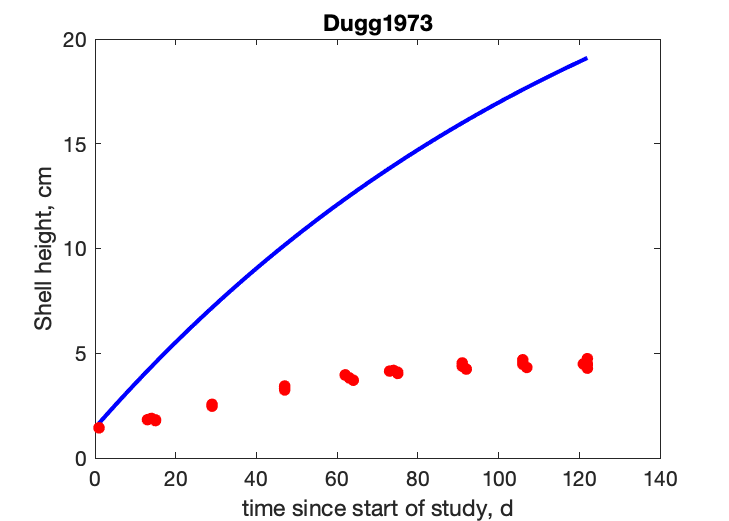
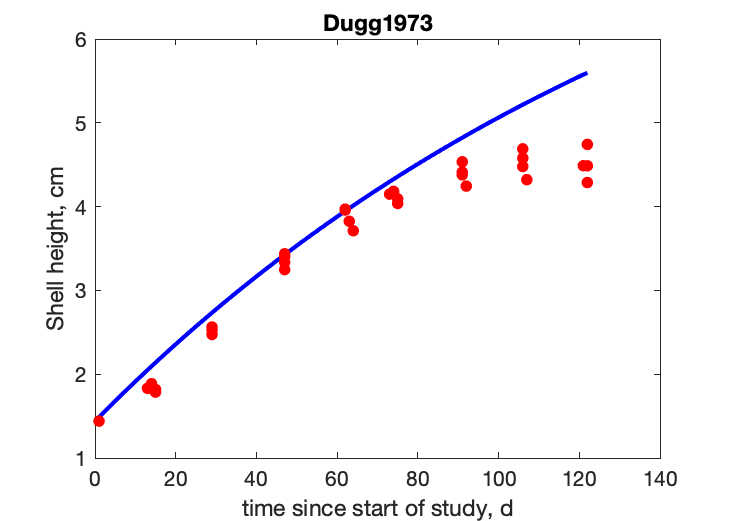
exclude assimilation in dry weight oxygen consumption

diff --git a/Argopecten_irradians/Argopecten_irradians_res.html b/Argopecten_irradians/Argopecten_irradians_res.html
@@ -44,7 +44,7 @@
   </div>
 
   <div class="par">
-  <h4>COMPLETE = 2.5; MRE = 2308.032; SMSE =    0.736 </h4>
+  <h4>COMPLETE = 2.5; MRE =    0.480; SMSE =    0.290 </h4>
   </div>
 
   <p class="clear"></p>
@@ -53,28 +53,29 @@
   <h2>Data & predictions</h2>
   <TABLE id="prd">
     <TR  class="head"><TH>data</TH> <TH>prd</TH> <TH>RE</TH>  <TH>symbol</TH> <TH>units</TH> <TH>description</TH> </TR>
-    <TR><TD>  1</TD> <TD>0.1167</TD> <TD>0.8833</TD> <TD>ab</TD> <TD>d</TD> <TD>age at birth</TD></TR>
-    <TR><TD>12.2</TD> <TD>0.5906</TD> <TD>0.9516</TD> <TD>aj</TD> <TD>d</TD> <TD>age at metamorphosis</TD></TR>
-    <TR><TD>365</TD> <TD>45.27</TD> <TD>0.876</TD> <TD>ap</TD> <TD>d</TD> <TD>age at puberty</TD></TR>
-    <TR><TD>790</TD> <TD>2680</TD> <TD>2.393</TD> <TD>am</TD> <TD>d</TD> <TD>life span</TD></TR>
-    <TR><TD>0.0081</TD> <TD>0.006428</TD> <TD>0.2064</TD> <TD>Lb</TD> <TD>cm</TD> <TD>shell length at birth</TD></TR>
-    <TR><TD>0.018</TD> <TD>0.03478</TD> <TD>0.9322</TD> <TD>Lj</TD> <TD>cm</TD> <TD>shell length at metamorphosis</TD></TR>
-    <TR><TD>5.5</TD> <TD>2.868</TD> <TD>0.4786</TD> <TD>Lp</TD> <TD>cm</TD> <TD>shell length at puberty</TD></TR>
-    <TR><TD>  9</TD> <TD>31.11</TD> <TD>2.457</TD> <TD>Li</TD> <TD>cm</TD> <TD>ultimate shell length</TD></TR>
-    <TR><TD>8.39e-07</TD> <TD>7.73e-10</TD> <TD>0.9991</TD> <TD>Wdb</TD> <TD>g</TD> <TD>dry tissue weight at birth</TD></TR>
-    <TR><TD>4.86e-06</TD> <TD>1.225e-07</TD> <TD>0.9748</TD> <TD>Wdj</TD> <TD>g</TD> <TD>dry tissue weight at metamorphosis</TD></TR>
-    <TR><TD>1.6</TD> <TD>0.0185</TD> <TD>0.9884</TD> <TD>Wdp</TD> <TD>g</TD> <TD>dry tissue weight at puberty</TD></TR>
-    <TR><TD>5.3</TD> <TD>23.62</TD> <TD>3.456</TD> <TD>Wdi</TD> <TD>g</TD> <TD>ultimate dry tissue weight</TD></TR>
-    <TR><TD>2094</TD> <TD>6.763e+07</TD> <TD>3.229e+04</TD> <TD>Ri</TD> <TD>#/d</TD> <TD>maximum reprod rate</TD></TR>
-    <TR><TD colspan="2">see figure</TD> <TD>2.384</TD> <TD>tL1</TD> <TD colspan="2">time since start of study, <font color="blue"><i>vs.</i></font> Shell height</TD>
-    <TR><TD colspan="2">see figure</TD> <TD>2.291</TD> <TD>tL2</TD> <TD colspan="2">Time since birth, <font color="blue"><i>vs.</i></font> Shell height</TD>
-    <TR><TD colspan="2">see figure</TD> <TD>0.2558</TD> <TD>TJO</TD> <TD colspan="2">temperature, <font color="blue"><i>vs.</i></font> O_2 consumption rate</TD>
-    <TR class="psd"><TD>0.02</TD> <TD>0.03876</TD> <TD>0.938</TD> <TD>psd.v</TD> <TD>cm/d</TD> <TD>energy conductance</TD></TR>
-    <TR class="psd"><TD>0.8</TD> <TD>0.8</TD> <TD>  0</TD> <TD>psd.kap</TD> <TD>-</TD> <TD>allocation fraction to soma</TD></TR>
+    <TR><TD>  1</TD> <TD>1.028</TD> <TD>0.0276</TD> <TD>ab</TD> <TD>d</TD> <TD>age at birth</TD></TR>
+    <TR><TD>12.2</TD> <TD>9.811</TD> <TD>0.1959</TD> <TD>aj</TD> <TD>d</TD> <TD>age at metamorphosis</TD></TR>
+    <TR><TD>365</TD> <TD>527.8</TD> <TD>0.446</TD> <TD>ap</TD> <TD>d</TD> <TD>age at puberty</TD></TR>
+    <TR><TD>790</TD> <TD>819.8</TD> <TD>0.03775</TD> <TD>am</TD> <TD>d</TD> <TD>life span</TD></TR>
+    <TR><TD>0.0081</TD> <TD>0.003921</TD> <TD>0.5159</TD> <TD>Lb</TD> <TD>cm</TD> <TD>shell length at birth</TD></TR>
+    <TR><TD>0.018</TD> <TD>0.03741</TD> <TD>1.078</TD> <TD>Lj</TD> <TD>cm</TD> <TD>shell length at metamorphosis</TD></TR>
+    <TR><TD>5.5</TD> <TD>5.624</TD> <TD>0.02253</TD> <TD>Lp</TD> <TD>cm</TD> <TD>shell length at puberty</TD></TR>
+    <TR><TD>  9</TD> <TD>9.199</TD> <TD>0.02214</TD> <TD>Li</TD> <TD>cm</TD> <TD>ultimate shell length</TD></TR>
+    <TR><TD>8.39e-07</TD> <TD>5.53e-08</TD> <TD>0.9341</TD> <TD>Wdb</TD> <TD>g</TD> <TD>dry tissue weight at birth</TD></TR>
+    <TR><TD>4.86e-06</TD> <TD>4.802e-05</TD> <TD>8.881</TD> <TD>Wdj</TD> <TD>g</TD> <TD>dry tissue weight at metamorphosis</TD></TR>
+    <TR><TD>1.6</TD> <TD>1.329</TD> <TD>0.1695</TD> <TD>Wdp</TD> <TD>g</TD> <TD>dry tissue weight at puberty</TD></TR>
+    <TR><TD>5.3</TD> <TD>5.816</TD> <TD>0.0973</TD> <TD>Wdi</TD> <TD>g</TD> <TD>ultimate dry tissue weight</TD></TR>
+    <TR><TD>2094</TD> <TD>1989</TD> <TD>0.05015</TD> <TD>Ri</TD> <TD>#/d</TD> <TD>maximum reprod rate</TD></TR>
+    <TR><TD colspan="2">see figure</TD> <TD>0.1048</TD> <TD>tL1</TD> <TD colspan="2">time since start of study, <font color="blue"><i>vs.</i></font> Shell height</TD>
+    <TR><TD colspan="2">see figure</TD> <TD>0.1523</TD> <TD>tL2</TD> <TD colspan="2">Time since start of study, <font color="blue"><i>vs.</i></font> Shell height</TD>
+    <TR><TD colspan="2">see figure</TD> <TD>0.2142</TD> <TD>TJO</TD> <TD colspan="2">temperature, <font color="blue"><i>vs.</i></font> O_2 consumption rate</TD>
+    <TR><TD colspan="2">see figure</TD> <TD>4.069</TD> <TD>WJO</TD> <TD colspan="2">dry weight, <font color="blue"><i>vs.</i></font> O_2 consumption rate</TD>
+    <TR class="psd"><TD>0.02</TD> <TD>0.02279</TD> <TD>0.1396</TD> <TD>psd.v</TD> <TD>cm/d</TD> <TD>energy conductance</TD></TR>
+    <TR class="psd"><TD>0.8</TD> <TD>0.9979</TD> <TD>0.2473</TD> <TD>psd.kap</TD> <TD>-</TD> <TD>allocation fraction to soma</TD></TR>
     <TR class="psd"><TD>0.95</TD> <TD>0.95</TD> <TD>  0</TD> <TD>psd.kap_R</TD> <TD>-</TD> <TD>reproduction efficiency</TD></TR>
-    <TR class="psd"><TD> 18</TD> <TD>51.68</TD> <TD>1.871</TD> <TD>psd.p_M</TD> <TD>J/d.cm^3</TD> <TD>vol-spec som maint</TD></TR>
+    <TR class="psd"><TD> 18</TD> <TD>35.34</TD> <TD>0.9633</TD> <TD>psd.p_M</TD> <TD>J/d.cm^3</TD> <TD>vol-spec som maint</TD></TR>
     <TR class="psd"><TD>0.002</TD> <TD>0.002</TD> <TD>  0</TD> <TD>psd.k_J</TD> <TD>1/d</TD> <TD>maturity maint rate coefficient</TD></TR>
-    <TR class="psd"><TD>0.8</TD> <TD>0.7931</TD> <TD>0.008611</TD> <TD>psd.kap_G</TD> <TD>-</TD> <TD>growth efficiency</TD></TR>
+    <TR class="psd"><TD>0.8</TD> <TD>0.7978</TD> <TD>0.002761</TD> <TD>psd.kap_G</TD> <TD>-</TD> <TD>growth efficiency</TD></TR>
   </TABLE>
   </div>
 
@@ -83,32 +84,33 @@
   <TABLE id="par">
     <TR class="head"><TH>symbol</TH> <TH>units</TH> <TH>value</TH>  <TH>free</TH> <TH>description</TH> </TR>
     <TR><TD>T_ref</TD> <TD>K</TD> <TD>293.1</TD> <TD>0</TD> <TD>Reference temperature</TD></TR>
-    <TR><TD>z</TD> <TD>-</TD> <TD>0.9754</TD> <TD>1</TD> <TD>zoom factor</TD></TR>
+    <TR><TD>z</TD> <TD>-</TD> <TD>0.3864</TD> <TD>1</TD> <TD>zoom factor</TD></TR>
     <TR><TD>F_m</TD> <TD>l/d.cm^2</TD> <TD>6.5</TD> <TD>0</TD> <TD>{F_m}, max spec searching rate</TD></TR>
     <TR><TD>kap_X</TD> <TD>-</TD> <TD>0.8</TD> <TD>0</TD> <TD>digestion efficiency of food to reserve</TD></TR>
     <TR><TD>kap_P</TD> <TD>-</TD> <TD>0.1</TD> <TD>0</TD> <TD>faecation efficiency of food to faeces</TD></TR>
-    <TR><TD>v</TD> <TD>cm/d</TD> <TD>0.03876</TD> <TD>1</TD> <TD>energy conductance</TD></TR>
-    <TR><TD>kap</TD> <TD>-</TD> <TD>0.8</TD> <TD>1</TD> <TD>allocation fraction to soma</TD></TR>
+    <TR><TD>v</TD> <TD>cm/d</TD> <TD>0.02279</TD> <TD>1</TD> <TD>energy conductance</TD></TR>
+    <TR><TD>kap</TD> <TD>-</TD> <TD>0.9979</TD> <TD>1</TD> <TD>allocation fraction to soma</TD></TR>
     <TR><TD>kap_R</TD> <TD>-</TD> <TD>0.95</TD> <TD>0</TD> <TD>reproduction efficiency</TD></TR>
-    <TR><TD>p_M</TD> <TD>J/d.cm^3</TD> <TD>51.68</TD> <TD>1</TD> <TD>[p_M], vol-spec somatic maint</TD></TR>
+    <TR><TD>p_M</TD> <TD>J/d.cm^3</TD> <TD>35.34</TD> <TD>1</TD> <TD>[p_M], vol-spec somatic maint</TD></TR>
     <TR><TD>p_T</TD> <TD>J/d.cm^2</TD> <TD>  0</TD> <TD>0</TD> <TD>{p_T}, surf-spec somatic maint</TD></TR>
     <TR><TD>k_J</TD> <TD>1/d</TD> <TD>0.002</TD> <TD>0</TD> <TD>maturity maint rate coefficient</TD></TR>
-    <TR><TD>E_G</TD> <TD>J/cm^3</TD> <TD>2374</TD> <TD>1</TD> <TD>[E_G], spec cost for structure</TD></TR>
-    <TR><TD>E_Hb</TD> <TD>J</TD> <TD>2.859e-06</TD> <TD>1</TD> <TD>maturity at birth</TD></TR>
-    <TR><TD>E_Hj</TD> <TD>J</TD> <TD>0.0004535</TD> <TD>1</TD> <TD>maturity at metam</TD></TR>
-    <TR><TD>E_Hp</TD> <TD>J</TD> <TD>75.57</TD> <TD>1</TD> <TD>maturity at puberty</TD></TR>
-    <TR><TD>h_a</TD> <TD>1/d^2</TD> <TD>5.544e-08</TD> <TD>1</TD> <TD>Weibull aging acceleration</TD></TR>
+    <TR><TD>E_G</TD> <TD>J/cm^3</TD> <TD>2360</TD> <TD>1</TD> <TD>[E_G], spec cost for structure</TD></TR>
+    <TR><TD>E_Hb</TD> <TD>J</TD> <TD>2.439e-06</TD> <TD>1</TD> <TD>maturity at birth</TD></TR>
+    <TR><TD>E_Hj</TD> <TD>J</TD> <TD>0.00215</TD> <TD>1</TD> <TD>maturity at metam</TD></TR>
+    <TR><TD>E_Hp</TD> <TD>J</TD> <TD>110.8</TD> <TD>1</TD> <TD>maturity at puberty</TD></TR>
+    <TR><TD>h_a</TD> <TD>1/d^2</TD> <TD>1.306e-06</TD> <TD>1</TD> <TD>Weibull aging acceleration</TD></TR>
     <TR><TD>s_G</TD> <TD>-</TD> <TD>0.0001</TD> <TD>0</TD> <TD>Gompertz stress coefficient</TD></TR>
     <TR><TD>T_A</TD> <TD>K</TD> <TD>8000</TD> <TD>0</TD> <TD>Arrhenius temperature</TD></TR>
-    <TR><TD>del_M</TD> <TD>-</TD> <TD>0.1696</TD> <TD>1</TD> <TD>shape coefficient</TD></TR>
+    <TR><TD>del_M</TD> <TD>-</TD> <TD>0.4007</TD> <TD>1</TD> <TD>shape coefficient</TD></TR>
     <TR><TD>Wd0</TD> <TD>g</TD> <TD>  1</TD> <TD>0</TD> <TD>dry weight for TJO data</TD></TR>
-    <TR><TD>Lw_0_tL1</TD> <TD>cm</TD> <TD>1.44</TD> <TD>0</TD> <TD>initial shell height for tL1 and tL2 data</TD></TR>
-    <TR><TD>Lw_0_tL2</TD> <TD>cm</TD> <TD>1.04</TD> <TD>0</TD> <TD>initial shell height for tL1 and tL2 data</TD></TR>
+    <TR><TD>Lw_0_tL1</TD> <TD>cm</TD> <TD>1.44</TD> <TD>0</TD> <TD>initial shell height for tL1 data</TD></TR>
+    <TR><TD>Lw_0_tL2</TD> <TD>cm</TD> <TD>1.04</TD> <TD>0</TD> <TD>initial shell height for tL2 data</TD></TR>
     <TR><TD>f</TD> <TD>-</TD> <TD>  1</TD> <TD>0</TD> <TD>scaled functional response for 0-var data</TD></TR>
-    <TR><TD>del_Mb</TD> <TD>-</TD> <TD>0.2626</TD> <TD>1</TD> <TD>shape coefficient before metamorphosis</TD></TR>
-    <TR><TD>f_tL1</TD> <TD>-</TD> <TD>0.5</TD> <TD>1</TD> <TD>scaled functional response for Virginia</TD></TR>
-    <TR><TD>f_tL2</TD> <TD>-</TD> <TD>0.5</TD> <TD>1</TD> <TD>scaled functional response for Florida</TD></TR>
-    <TR><TD>f_TJO</TD> <TD>-</TD> <TD>0.5</TD> <TD>1</TD> <TD>scaled functional response for Florida</TD></TR>
+    <TR><TD>del_Mb</TD> <TD>-</TD> <TD>1.992</TD> <TD>1</TD> <TD>shape coefficient before metamorphosis</TD></TR>
+    <TR><TD>f_tL1</TD> <TD>-</TD> <TD>0.001019</TD> <TD>1</TD> <TD>scaled functional response for tL1</TD></TR>
+    <TR><TD>f_tL2</TD> <TD>-</TD> <TD>0.001787</TD> <TD>1</TD> <TD>scaled functional response for tL2</TD></TR>
+    <TR><TD>f_TJO</TD> <TD>-</TD> <TD>0.9996</TD> <TD>1</TD> <TD>scaled functional response for TJO</TD></TR>
+    <TR><TD>f_WJO</TD> <TD>-</TD> <TD>0.9554</TD> <TD>1</TD> <TD>scaled functional response for WJO</TD></TR>
   </TABLE>
   </div>
 

diff --git a/Argopecten_irradians/predict_Argopecten_irradians.m b/Argopecten_irradians/predict_Argopecten_irradians.m
@@ -26,6 +26,7 @@ function [prdData, info] = predict_Argopecten_irradians(par, data, auxData)
   filterChecks = ... % f contrained to not be larger than 1 or negeative
                  f_tL1>1 || f_tL1 < 0 || ... ;
                  f_tL2>1 || f_tL2 < 0 || ... ;
+                 f_WJO>1 || f_WJO < 0 || ... ;
                  f_TJO >1 || f_TJO < 0;
    
 if filterChecks
@@ -135,7 +136,9 @@ end
   L        = (W / d_V / (1 + f * w)).^(1/3);
   [L, rows, occurence] = unique(L); % pulls out unique Length elements in increasing order
   pACSJGRD = TC * p_ref * scaled_power_j(L, f, pars_p, l_b, l_j, l_p);
+  
   pADG     = pACSJGRD(:,[1 7 5])';     % J/d,    assimilation, dissipation, growth power
+  pACSJGRD(:,1) = 0 * pACSJGRD(:,1); % exclude contribution from assimilation
   J_O      = eta_O * pADG;             % mol/d,  fluxes of organics J_X, J_V, J_E, J_P in rows
   J_M      = -n_M \ n_O * J_O;         % mol/d,  fluxes of minerals J_C, J_H, J_O, J_N in rows, A, D, G in cols
   WJO     = -24.4e3 / 24 * J_M(3,:)'; % mLO2/h, O2 consumption

diff --git a/Argopecten_irradians/mydata_Argopecten_irradians.m b/Argopecten_irradians/mydata_Argopecten_irradians.m
@@ -148,7 +148,7 @@ weights = setweights(data, []);
 % confident in some early life stage data, lots of hatchery data and sources
 weights.aj = 2 * weights.aj;
 weights.ab = 2 * weights.ab;
-weights.am = 2 * weights.am;
+weights.am = 2 * weights.am; % short lived speceis
 weights.ab = 2 * weights.Lb;
 weights.am = 2 * weights.Lj;
 

diff --git a/Argopecten_irradians/run_Argopecten_irradians.m b/Argopecten_irradians/run_Argopecten_irradians.m
@@ -8,7 +8,7 @@ estim_options('default');
 estim_options('max_step_number', 5e2);
 estim_options('max_fun_evals', 5e3);
 
-estim_options('pars_init_method', 2); 
+estim_options('pars_init_method', 1); 
 % 2 reads from pars_init file
 % 1 reads from estimation output
 estim_options('results_output', 3); 
